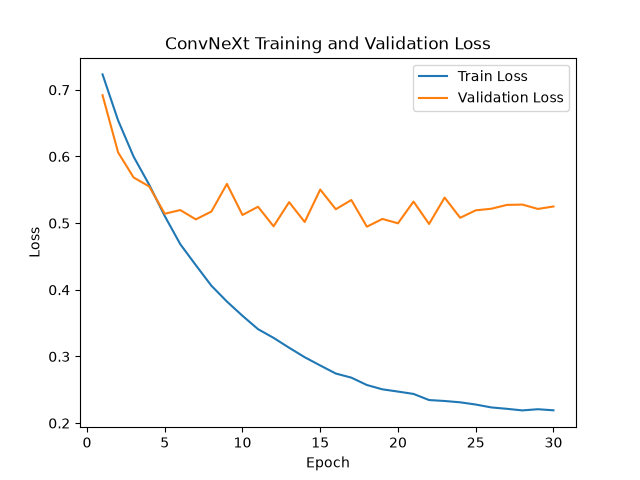
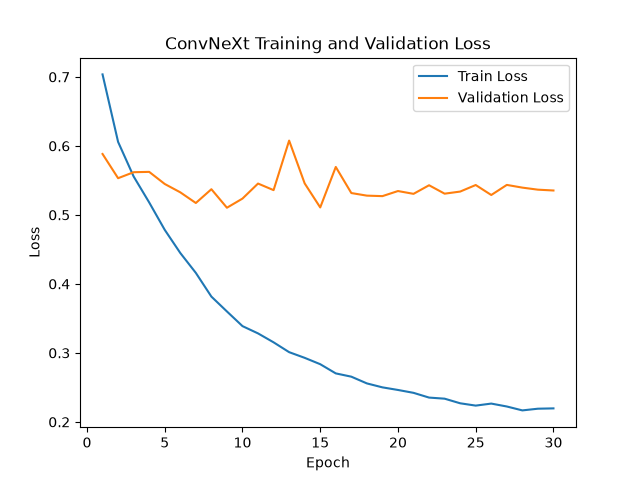
added gradient clipping

diff --git a/recognition/ConvNeXt_s48897453/train.py b/recognition/ConvNeXt_s48897453/train.py
@@ -193,6 +193,13 @@ def train_ConvNeXt():
 
             scaler.scale(loss).backward()
 
+            scaler.unscale_(optimizer)
+
+            torch.nn.utils.clip_grad_norm_(
+                model.parameters(),
+                max_norm=1.0
+            )
+
             scaler.step(optimizer)
 
             scaler.update()
@@ -456,6 +463,8 @@ if __name__ == "__main__":
 
         elif i == "convnext":
             train_ConvNeXt()
+
+        raise SystemExit
 
     if i == "resnet":
         model = ResNet50(num_classes=2).to(device)

diff --git a/recognition/ConvNeXt_s48897453/modules.py b/recognition/ConvNeXt_s48897453/modules.py
@@ -41,7 +41,7 @@ class ResNet(nn.Module):
         self.in_channels = 64
 
         # Initial stem layers: typical for standard ImageNet ResNet
-        self.conv1 = nn.Conv2d(3, 64, kernel_size=7, stride=2, padding=3, bias=False)
+        self.conv1 = nn.Conv2d(1, 64, kernel_size=7, stride=2, padding=3, bias=False)
         self.bn1 = nn.BatchNorm2d(64)
         self.maxpool = nn.MaxPool2d(kernel_size=3, stride=2, padding=1)
 
